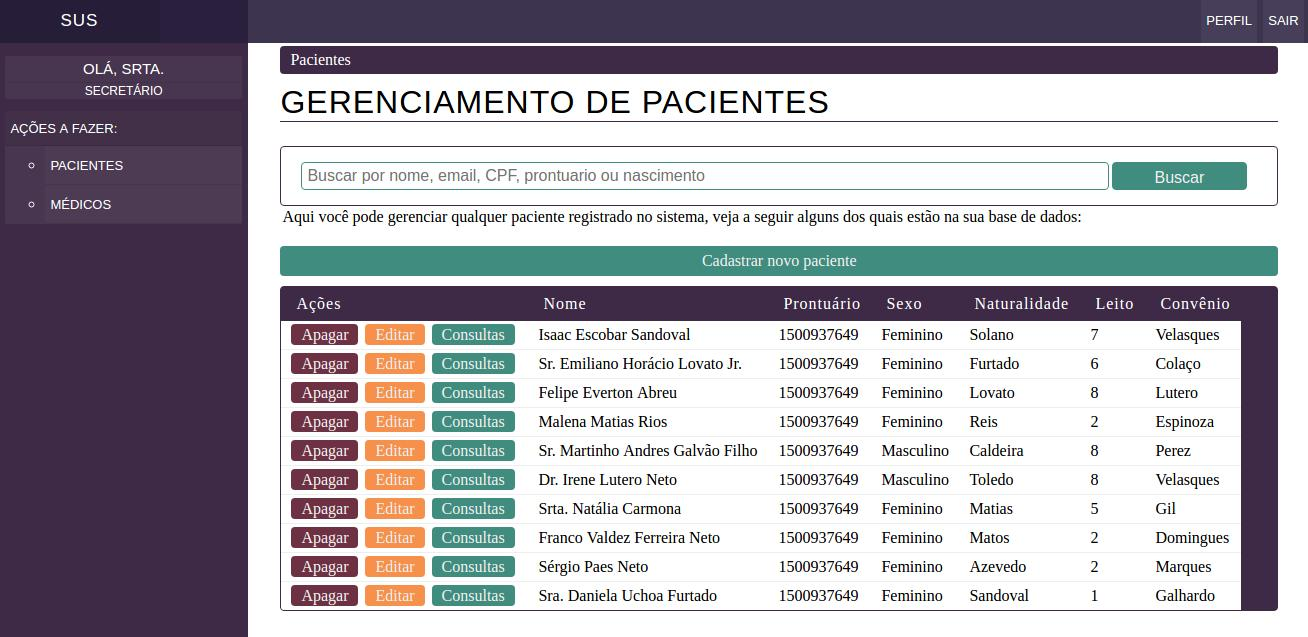
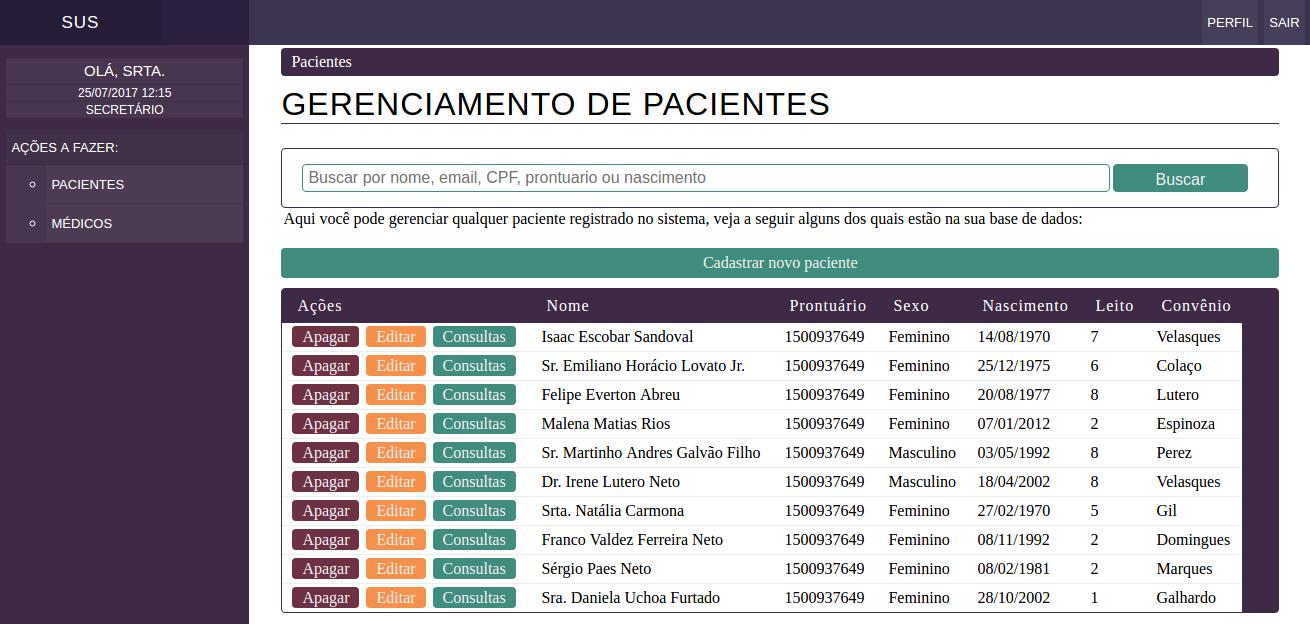
consultas do dia

diff --git a/src/app/Http/Controllers/MedicoController.php b/src/app/Http/Controllers/MedicoController.php
@@ -4,7 +4,7 @@ namespace App\Http\Controllers;
 
 use Illuminate\Http\Request;
 use App\Http\Requests\MedicoRequest;
-use App\Model\{Medico, Usuario};
+use App\Model\{Medico, Usuario, Consulta};
 
 class MedicoController extends Controller
 {
@@ -67,11 +67,56 @@ class MedicoController extends Controller
         return view('medicos.ferias');
     }
 
-    public function Salvarferias(Request $requisicao)
+    public function salvarFerias(Request $requisicao)
     {
         auth()->user()->medico->ferias = $requisicao->ferias;
         auth()->user()->medico->save();
 
         return redirect('medicos/ferias')->withMsg('Férias foram salvas!');
+    }
+
+    public function doDia()
+    {
+        $carga = auth()->user()->medico->carga_horaria;
+
+        $agora = strtotime('now');
+        $depois =  strtotime('+'.$carga->intervalo.' minutes');
+
+        $inicio = new \DateTime(date('Y-m-d') . ' ' . $carga->inicio);
+        $fim = new \DateTime(date('Y-m-d') . ' ' . $carga->fim);
+
+        if($inicio > $fim)
+            $fim->add( new \DateInterval('P1D') );
+
+        $intervalo = new \DateInterval('PT'.$carga->intervalo.'M');
+        $periodo = new \DatePeriod($inicio, $intervalo ,$fim);
+        $ini = $agora;
+
+        foreach($periodo as $data) {
+            if($agora <= $data->format('U')) {
+                $depois = $data->format('U');
+                $ini = $depois - ($carga->intervalo * 60);
+                break;
+            }
+        }
+
+
+        $futuras = Consulta::where('medico_id', auth()->user()->id)
+            ->where('horario', '>=', date('Y-m-d H:i', $depois))
+            ->where('horario', 'like', date('Y-m-d', $depois) . '%')
+        ->get();
+
+        $passadas = Consulta::where('medico_id', auth()->user()->id)
+            ->where('horario', '<', date('Y-m-d H:i', $ini))
+            ->where('horario', 'like', date('Y-m-d', $agora) . '%')
+        ->get();
+
+        $andamento = Consulta::where('medico_id', auth()->user()->id)
+            ->where('horario', '<=', date('Y-m-d H:i', $depois))
+            ->where('horario', '>=', date('Y-m-d H:i', $ini))
+            ->where('horario', 'like', date('Y-m-d', $agora) . '%')
+        ->get();
+
+        return view('medicos.dia', compact('futuras', 'passadas', 'andamento'));
     }
 }

diff --git a/src/resources/views/medicos/dia.blade.php b/src/resources/views/medicos/dia.blade.php
@@ -1,0 +1,82 @@
+@extends('layouts.app')
+
+@section('titulo', 'Consultas do dia')
+
+@section('lateral')
+@endsection
+
+@section('conteudo')
+
+    <p style="text-align:center">
+        @if(session('msg'))
+            <span class="texto-verde">
+                {{ session('msg') }}
+            </span>
+        @endif
+
+         @if(session('erro'))
+            <span class="texto-vermelho">
+                {{ session('erro') }}
+            </span>
+        @endif
+    </p>
+
+
+    <p>
+        Olá <span class="texto-verde">{{ auth()->user()->nome }}</span>, aqui estão suas consultas de hoje:
+    </p>
+    <br>
+	@if(count($andamento) > 0)
+		<h2>Consultas em andamento</h2>
+		<ul class="lista-amarela">
+	        @foreach ($andamento as $consulta)
+	        	<li>
+	        		<span>
+	        			{{ date('d/m/Y á\s H:i', strtotime($consulta->horario)) }} -
+	        			{{ $consulta->paciente->nome }}
+	        		</span>
+
+	        		<div class="direita">
+		                <a href="#" class="btn azul">Paciente</a>
+		            </div>
+	        	</li>
+	        @endforeach
+	    </ul>
+	@endif
+
+	@if(count($futuras) > 0)
+    	<h2>Consultas futuras</h2>
+		<ul class="lista-vermelha">
+	        @foreach ($futuras as $consulta)
+	        	<li>
+	        		<span>
+	        			{{ date('d/m/Y á\s H:i', strtotime($consulta->horario)) }} -
+	        			{{ $consulta->paciente->nome }}
+	        		</span>
+
+	        		<div class="direita">
+		                <a href="#" class="btn azul">Paciente</a>
+		            </div>
+	        	</li>
+	        @endforeach
+	    </ul>
+	@endif
+
+	@if(count($futuras) > 0)
+	    <h2>Consultas passadas</h2>
+		<ul class="lista-verde">
+	        @foreach ($passadas as $consulta)
+	        	<li>
+	        		<span>
+	        			{{ date('d/m/Y á\s H:i', strtotime($consulta->horario)) }} -
+	        			{{ $consulta->paciente->nome }}
+	        		</span>
+
+	        		<div class="direita">
+		                <a href="#" class="btn azul">Paciente</a>
+		            </div>
+	        	</li>
+	        @endforeach
+	    </ul>
+	@endif
+@endsection

diff --git a/src/app/Http/Controllers/ConsultaController.php b/src/app/Http/Controllers/ConsultaController.php
@@ -165,16 +165,18 @@ class ConsultaController extends Controller
         $intervalo = new \DateInterval('PT'.$medico->carga_horaria->intervalo.'M');
         $periodo = new \DatePeriod($inicio, $intervalo ,$fim);
 
+        $ini = $agora;
         foreach($periodo as $data) {
             if($agora <= $data->format('U')) {
                 $depois = $data->format('U');
+                $ini = $depois - ($medico->carga_horaria->intervalo * 60);
                 break;
             }
         }
 
         $tipo = 'med';
 
-        return view('consulta.lista', compact('agora', 'depois', 'medico', 'consultas', 'tipo'));
+        return view('consulta.lista', compact('agora', 'depois', 'medico', 'consultas', 'tipo', 'ini'));
     }
 
     public function apagar($id, $consulta)

diff --git a/src/resources/views/consulta/marcar.blade.php b/src/resources/views/consulta/marcar.blade.php
@@ -46,7 +46,7 @@
             <td>Nome</td>
             <td>Prontuário</td>
             <td>Sexo</td>
-            <td>Naturalidade</td>
+            <td>Nascimento</td>
             <td>Leito</td>
             <td>Convênio</td>
         </tr>
@@ -70,7 +70,7 @@
                 <td>{{ $paciente->nome }}</td>
                 <td>{{ $paciente->prontuario }}</td>
                 <td>{{ $paciente->sexo }}</td>
-                <td>{{ $paciente->naturalidade }}</td>
+                <td>{{ date('d/m/Y', strtotime($paciente->nascimento)) }}</td>
                 <td>{{ $paciente->leito != null ? $paciente->leito : 'n/d'  }}</td>
                 <td>{{ $paciente->convenio }}</td>
             </tr>

diff --git a/src/resources/views/pacientes/lista.blade.php b/src/resources/views/pacientes/lista.blade.php
@@ -46,7 +46,7 @@
             <td>Nome</td>
             <td>Prontuário</td>
             <td>Sexo</td>
-            <td>Naturalidade</td>
+            <td>Nascimento</td>
             <td>Leito</td>
             <td>Convênio</td>
         </tr>
@@ -68,7 +68,7 @@
                 <td>{{ $paciente->nome }}</td>
                 <td>{{ $paciente->prontuario }}</td>
                 <td>{{ $paciente->sexo }}</td>
-                <td>{{ $paciente->naturalidade }}</td>
+                <td>{{ date('d/m/Y', strtotime($paciente->nascimento)) }}</td>
                 <td>{{ $paciente->leito != null ? $paciente->leito : 'n/d'  }}</td>
                 <td>{{ $paciente->convenio }}</td>
             </tr>

diff --git a/src/resources/views/consulta/lista.blade.php b/src/resources/views/consulta/lista.blade.php
@@ -77,9 +77,9 @@
                 @if($tipo == 'med')
                     <td>
 
-                        @if($agora > strtotime($consulta->horario))
+                        @if($ini > strtotime($consulta->horario))
                             <a href="#" class="btn verde">Concluída</a>
-                        @elseif($depois < strtotime($consulta->horario))
+                        @elseif($depois <= strtotime($consulta->horario))
                             <a href="#" class="btn vermelho">Pendente</a>
                         @else
                             <a href="#" class="btn amarelo">Atendendo</a>

diff --git a/src/routes/web.php b/src/routes/web.php
@@ -38,6 +38,8 @@ Route::group(['prefix' => 'medicos'], function() {
     Route::group(['middleware' => 'autenticacao:med'], function() {
         Route::get('ferias', 'MedicoController@ferias');
         Route::post('ferias', 'MedicoController@salvarFerias');
+
+        Route::get('dia', 'MedicoController@doDia');
     });
 
      Route::group(['middleware' => 'autenticacao:sec'], function() {

diff --git a/src/resources/views/layouts/app.blade.php b/src/resources/views/layouts/app.blade.php
@@ -39,6 +39,7 @@
                         <p>{!! Saudacoes::gerar() !!}</p>
                     @else
                         <p>Olá, {{ explode(' ', auth()->user()->nome)[0] }}</p>
+                        <small>{{ date('d/m/Y H:i') }}</small>
                         <small>{{ auth()->user()->tipo() }}</small>
                     @endif
                 </section>

diff --git a/src/app/Http/Controllers/PainelController.php b/src/app/Http/Controllers/PainelController.php
@@ -8,6 +8,8 @@ class PainelController extends Controller
 {
     public function inicial()
     {
+    	if(auth()->user()->medico)
+    		return redirect('medicos/dia');
     	return view('painel');
     }
 }

diff --git a/src/resources/views/welcome.blade.php b/src/resources/views/welcome.blade.php
@@ -42,7 +42,6 @@
     <ul class="lista-vermelha">
         <li>Meu 1º item da lista</li>
         <li>Meu 2º item da lista</li>
-
     </ul>
 
     <ul class="lista-amarela">

diff --git a/README.md b/README.md
@@ -29,7 +29,7 @@ A seguir são dispostos os requisitos do sistema, em forma de lista de tarefas, 
 - [ ] [Registro de evolução](./planejamento/registro-evolucao.md)
 - [ ] [Prescrição de medicamentos](./planejamento/prescricao.md)
 - [ ] [Receituário de paciente](./planejamento/receituario-paciente.md)
-- [ ] [Consultas do dia](./planejamento/consultas-dia.md)
+- [x] [Consultas do dia](./planejamento/consultas-dia.md)
 - [x] [Agendamento de férias simples](./planejamento/gerencia-ferias-simples.md)
 
 ### Secretários

diff --git a/planejamento/consultas-dia.md b/planejamento/consultas-dia.md
@@ -10,4 +10,10 @@ Na tela inicial, será exposta uma lista com as consultas marcadas para aquele m
 
 Como consultas possuem hora de início, é possível personaliza a lista, mostrando em verde as consultas já feitas, em amarelo, as consultas em andamento e em vermelho as consultas a fazer.
 
+## Implementação
+
+A página inicial de um médico no sistema é uma listagem filtrada das consultas do dia, como podemos ver a seguir:
+
+![Tela](./img/consultas-dia.jpeg?raw=true)
+
 [Voltar](../README.md)
